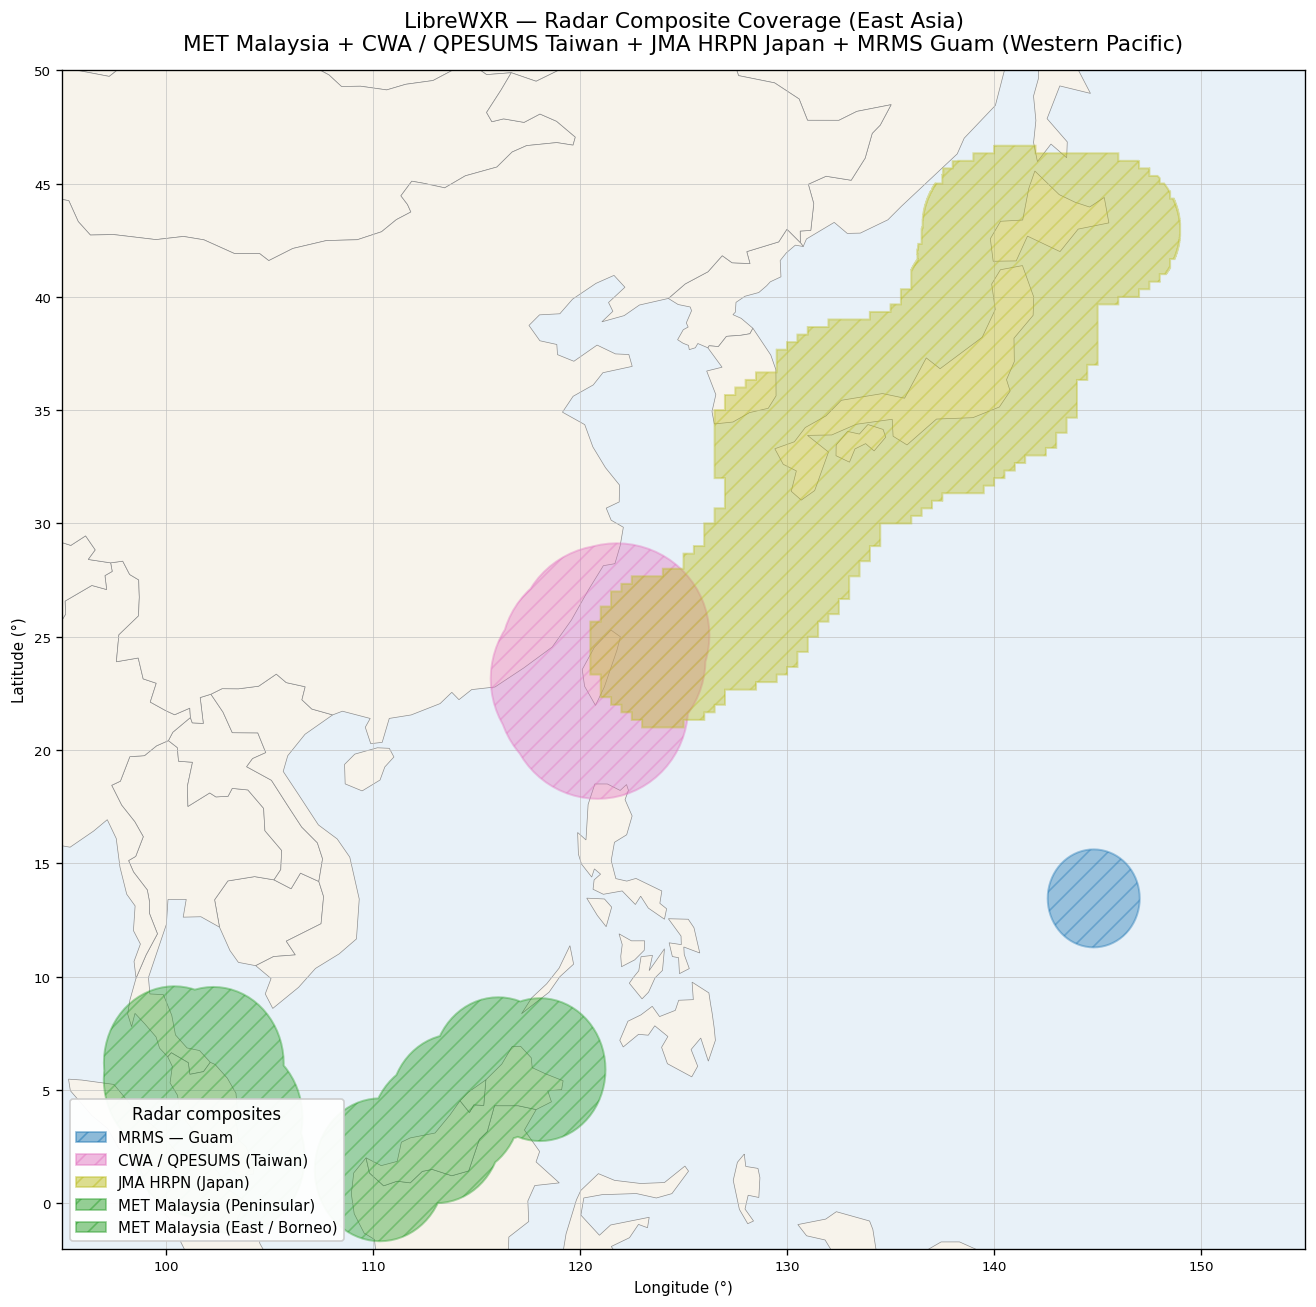
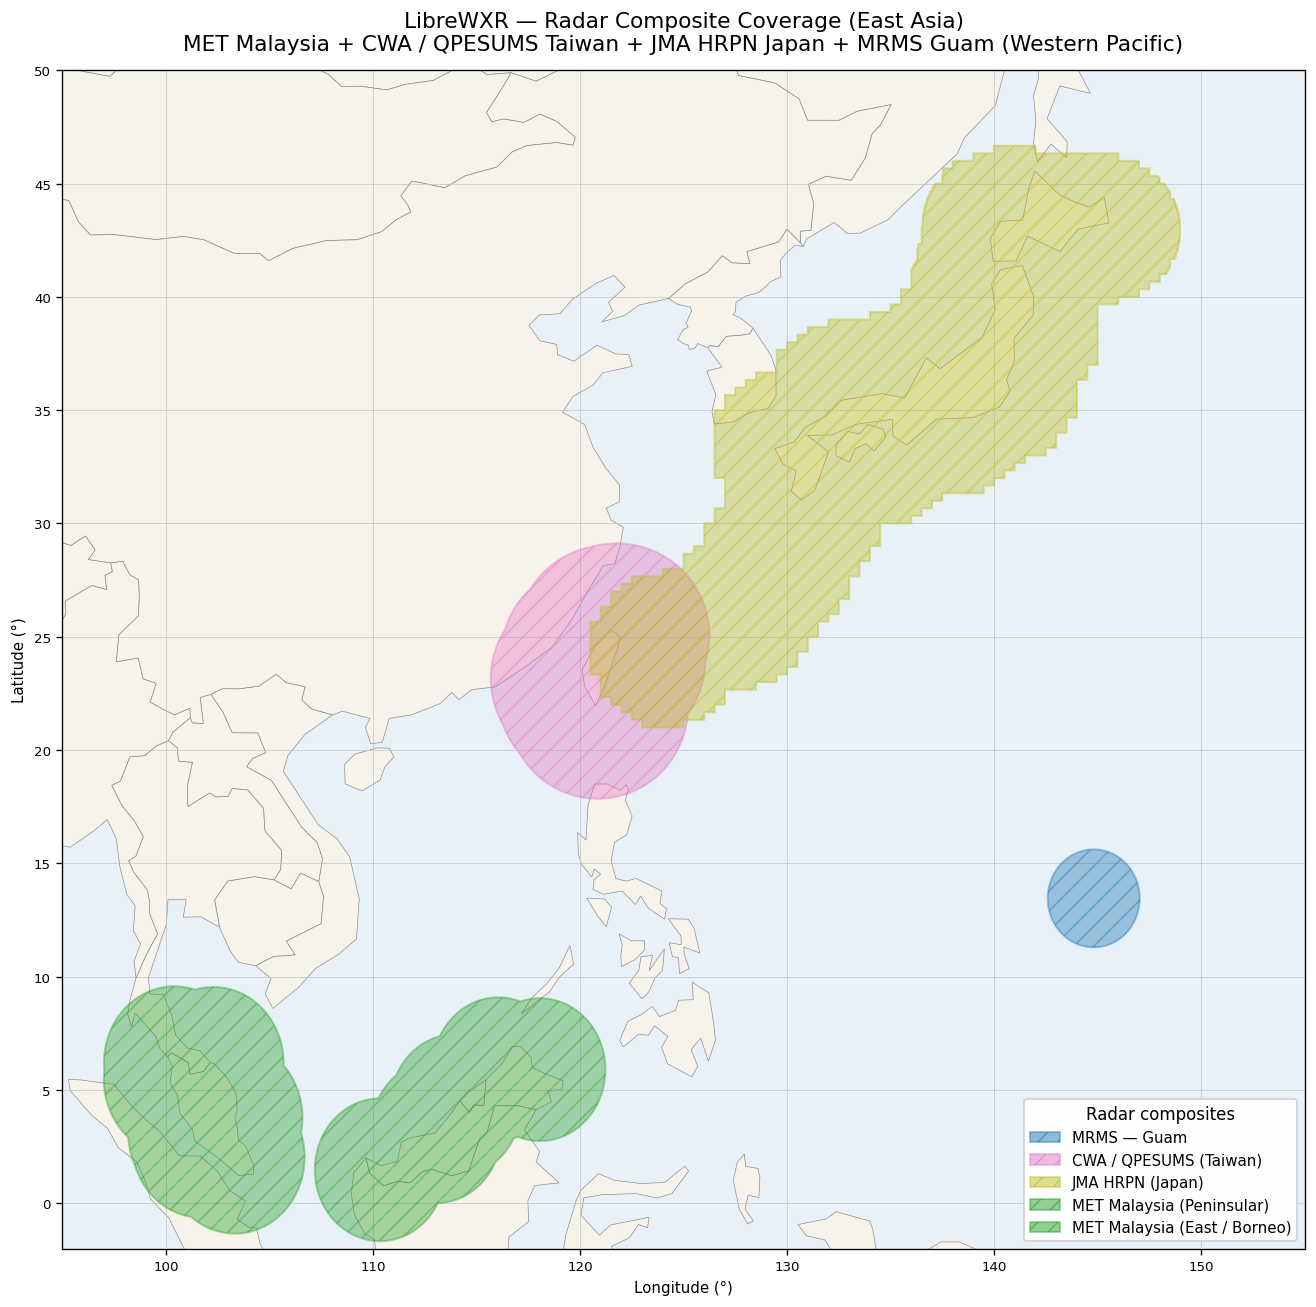
Fix Leaflet preload counter overshoot; clear MMD from EA legend
Two unrelated user-facing nits:

* examples/leaflet.html — the "Loading frames N/M" indicator could
  overshoot M after a few pans (visible as e.g. "523/6").  Leaflet's
  TileLayer fires `load` every time all visible tiles for an on-map
  layer finish requesting, including on pan/zoom for already-cached
  layers still attached at opacity 0.  The handler was bound with
  `.on('load', ...)`, so each pan re-fired all the closures from the
  original preload session, each one incrementing `loaded` and
  recursively walking the `toLoad` chain.

  Switch both spots (showFrame's single-layer handler and doPreload's
  per-layer pair) to `.once('load', ...)`, and add an `advanced` flag
  in the preload path so a `tileerror` followed by `load` only counts
  once.

* scripts/generate_coverage_map.py — the East Asia radar legend sat in
  the default lower-left, covering MET Malaysia (Peninsular + East
  Borneo) coverage.  Added a `legend_loc` parameter to `render()`
  (defaults to "lower left" everywhere) and set the EA radar map to
  "lower right" — open W. Pacific past JMA HRPN reach.  The EA model
  map stays at the default (lower-left over Indonesia/Borneo, no NWP
  grid there).

Changed region(s): [[0.0312, 0.8263, 0.2804, 0.9487], [0.7789, 0.8263, 0.997, 0.9487]]

diff --git a/examples/leaflet.html b/examples/leaflet.html
@@ -867,7 +867,13 @@ function showFrame(position) {
         targetOpacity = RADAR_OPACITY;
     }
 
-    newLayer.on('load', function() {
+    // .once so the handler doesn't re-fire on subsequent pan/zoom tile
+    // reloads — Leaflet fires `load` every time all visible tiles for a
+    // layer finish requesting, and a cached layer still attached to the
+    // map with opacity 0 keeps requesting tiles when the viewport
+    // changes.  Without this, a paused animation would fast-forward on
+    // pan and a live one would skip frames.
+    newLayer.once('load', function() {
         newLayer.setOpacity(targetOpacity);
         if (oldLayer && oldLayer !== newLayer) {
             oldLayer.setOpacity(0);
@@ -968,7 +974,19 @@ function doPreload() {
             layer = createRadarLayer(frame, 'radar-pane');
         }
 
-        layer.on('load', function() {
+        // Use .once + an "advanced" flag so the load counter only
+        // increments once per layer.  Two problems being headed off:
+        // (1) Leaflet's `load` re-fires on pan/zoom for cached layers
+        //     still attached to the map, which without .once would push
+        //     `loaded` past `total` (visible as "Loading frames 523/6"
+        //     after a few pans).
+        // (2) `load` and `tileerror` can both fire for the same layer
+        //     when some tiles error and others succeed; the flag stops
+        //     the second one from double-counting.
+        var advanced = false;
+        layer.once('load', function() {
+            if (advanced) return;
+            advanced = true;
             if (preloadAbort) {
                 map.removeLayer(layer);
                 hidePreloadIndicator();
@@ -981,7 +999,9 @@ function doPreload() {
             loadNext(idx + 1);
         });
 
-        layer.on('tileerror', function() {
+        layer.once('tileerror', function() {
+            if (advanced) return;
+            advanced = true;
             loaded++;
             showPreloadIndicator(loaded, total);
             loadNext(idx + 1);

diff --git a/scripts/generate_coverage_map.py b/scripts/generate_coverage_map.py
@@ -686,6 +686,7 @@ def render(
     figsize: tuple[float, float] = (16, 9),
     xtick_step: int = 30,
     ytick_step: int = 30,
+    legend_loc: str = "lower left",
 ) -> None:
     """Render one map with the given polygon set.
 
@@ -748,7 +749,7 @@ def render(
             label=label,
         ))
     ax.legend(
-        handles=handles, loc="lower left",
+        handles=handles, loc=legend_loc,
         title=legend_title, fontsize=9, title_fontsize=10,
         framealpha=0.95,
     )
@@ -873,6 +874,11 @@ if __name__ == "__main__":
         aspect=ea_aspect,
         figsize=(13, 11),
         xtick_step=10, ytick_step=5,
+        # Lower-left would overlap MET Malaysia (Peninsular + Borneo
+        # coverage starts around 1°N 100°E).  Lower-right sits over the
+        # open W. Pacific past JMA HRPN's ~145°E reach — the small
+        # MRMS Guam disc near 13°N 144°E doesn't reach the legend area.
+        legend_loc="lower right",
     )
     render(
         sources=_filter_sources_to_bounds(build_model_sources(), ea_bounds),
@@ -885,4 +891,6 @@ if __name__ == "__main__":
         aspect=ea_aspect,
         figsize=(13, 11),
         xtick_step=10, ytick_step=5,
+        # Default lower-left sits over Indonesia/Borneo — no NWP grid
+        # claims that corner, so it works for the model map as-is.
     )